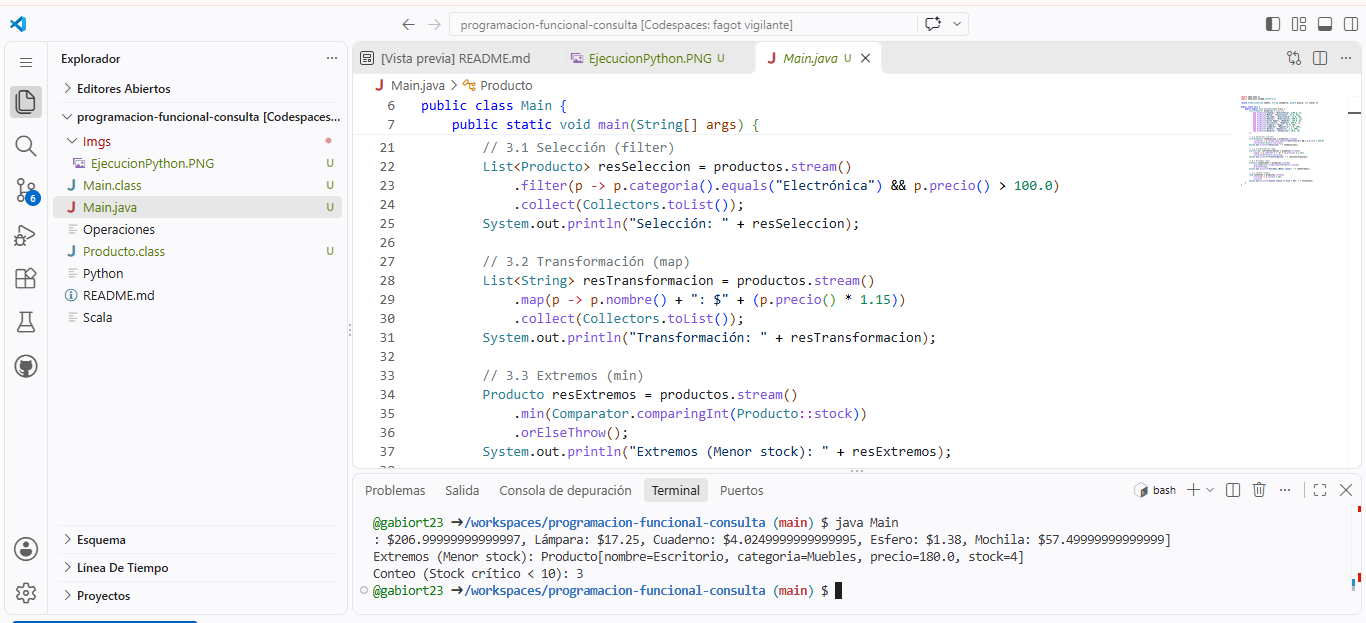
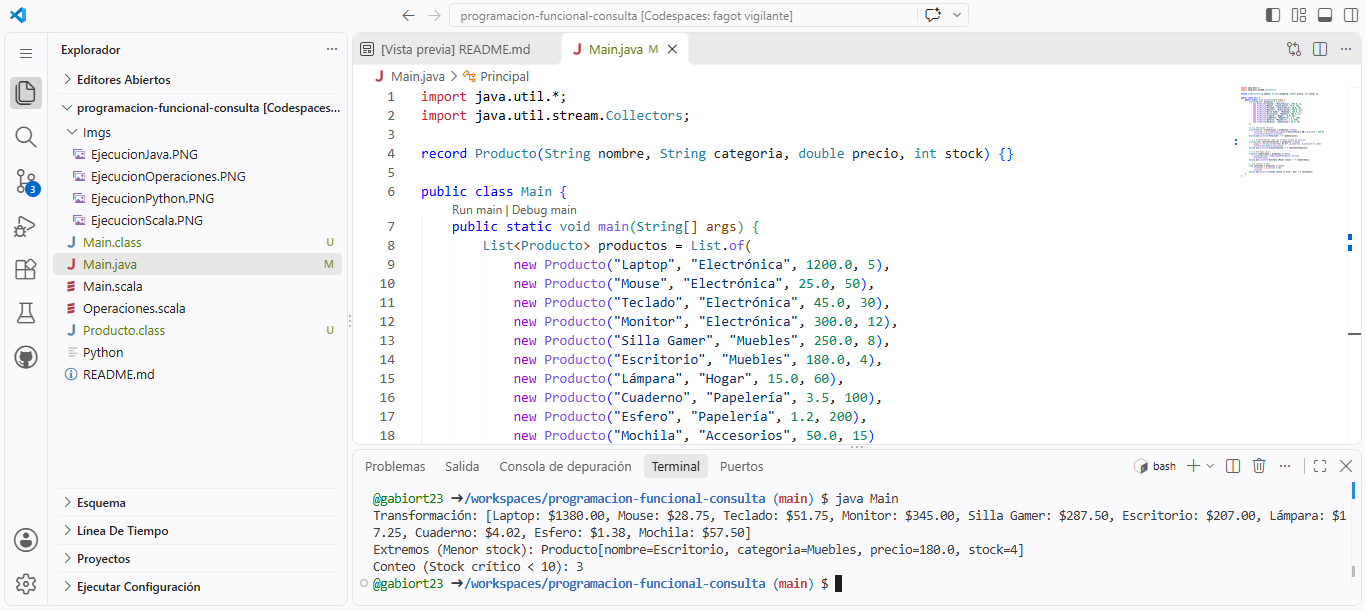
Actualizar estado final del proyecto

diff --git a/Main.java b/Main.java
@@ -24,9 +24,9 @@ public class Main {
             .collect(Collectors.toList());
         System.out.println("Selección: " + resSeleccion);
 
-        // 3.2 Transformación (map)
+        // 3.2 Transformación (map con formato limpio de precios)
         List<String> resTransformacion = productos.stream()
-            .map(p -> p.nombre() + ": $" + (p.precio() * 1.15))
+            .map(p -> String.format("%s: $%.2f", p.nombre(), p.precio() * 1.15))
             .collect(Collectors.toList());
         System.out.println("Transformación: " + resTransformacion);
 
